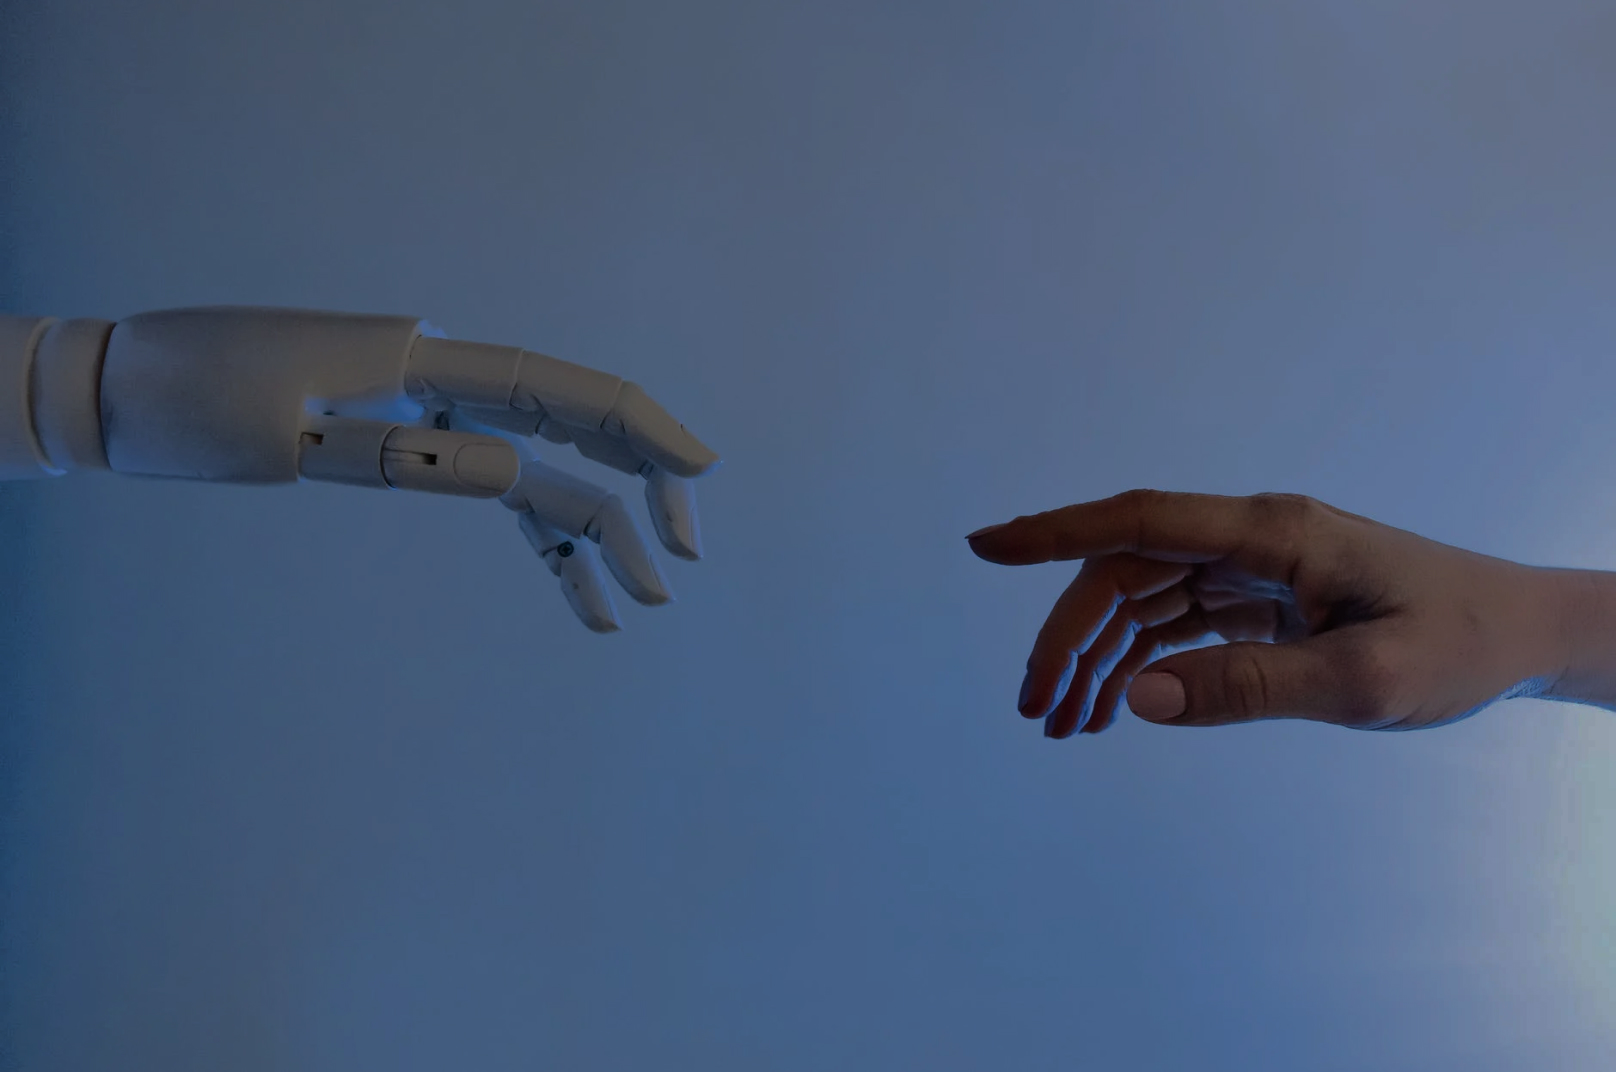
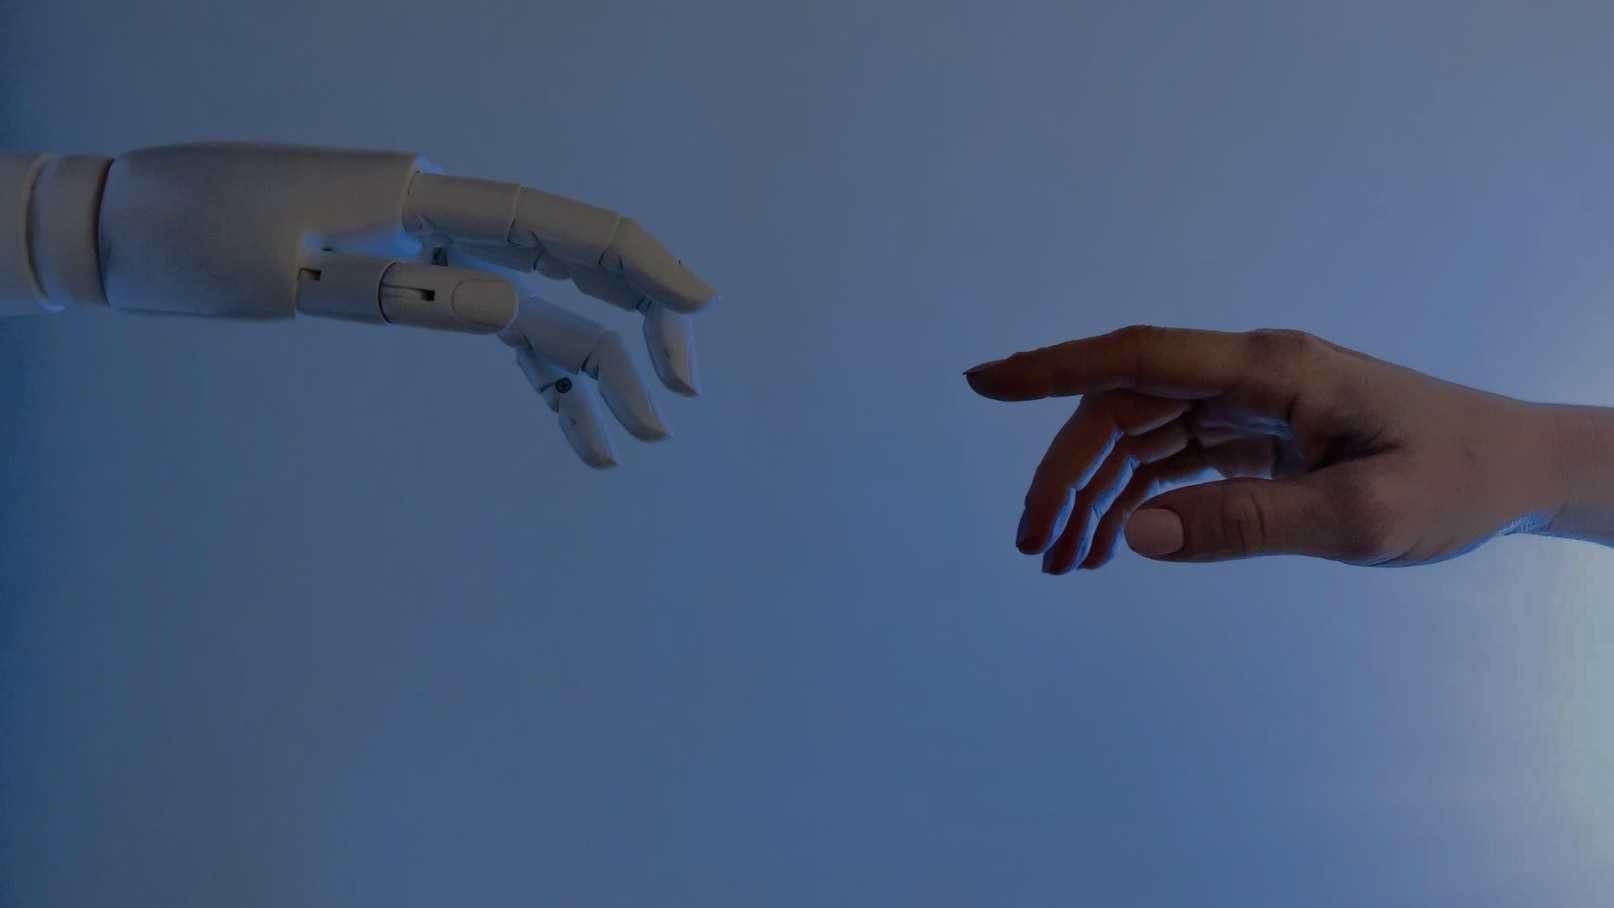
.

Changed region(s): [[0.0, 0.1542, 0.4647, 0.5859], [0.5886, 0.3392, 1.0, 0.7093]]

diff --git a/prototype-estagio/home.html b/prototype-estagio/home.html
@@ -1,21 +1,27 @@
 <!DOCTYPE html>
 <html lang="pt-br">
-<head>
-    <meta charset="UTF-8">
-    <meta http-equiv="X-UA-Compatible" content="IE=edge">
-    <meta name="viewport" content="width=device-width, initial-scale=1.0">
-    
-    <!-- ### CSS ### -->
-    <link rel="stylesheet" href="css/style.css">
+    <head>
+        <meta charset="UTF-8">
+        <meta http-equiv="X-UA-Compatible" content="IE=edge">
+        <meta name="viewport" content="width=device-width, initial-scale=1.0">
+        
+        <!-- ### CSS ### -->
+        <link rel="stylesheet" href="css/style.css">
 
-    <!-- ### TÍTULO DOCUMENTO ### -->
-    <title>############</title>
-</head>
-<body>
-    
+        <!-- ### TÍTULO DOCUMENTO ### -->
+        <title>############</title>
+    </head>
+    <body>
+        <header>
+            <div id="topicos">
+                <ul>
+                    <li><a href="#">Tópico1</a><a href="#">Tópico2</a><a href="#">Tópico3</a></li>
+                </ul>
+            </div>
+        </header>
 
-    
-    <!-- ### JAVASCRIPT ### -->
-    <script src="javascript/script.js"></script>
-</body>
+        
+        <!-- ### JAVASCRIPT ### -->
+        <script src="javascript/script.js"></script>
+    </body>
 </html>

diff --git a/prototype-estagio/css/style.css b/prototype-estagio/css/style.css
@@ -1,7 +1,35 @@
+header {
+    width: 100%;
+    height: 50px;
+    left: 0;
+    margin-top: 0;
+    background-color: rgba(23, 34, 51, 0.25);
+}
+
+#topicos {
+    text-align: center;
+}
+
+ul li {
+    list-style: none;
+}
+
+ul li a {
+    color: white;
+    text-decoration: none;
+    margin: 30px;
+}
+
+ul li a:hover {
+    color: rgb(9, 92, 218);
+    text-decoration: underline;
+}
+
 body {
+    padding: 0;
+    margin: 0;
     background-image: url(../img/img_principal.jpg);
     background-size: cover;
     background-attachment: fixed;
     background-repeat: no-repeat;
-    top: 0;
 }
